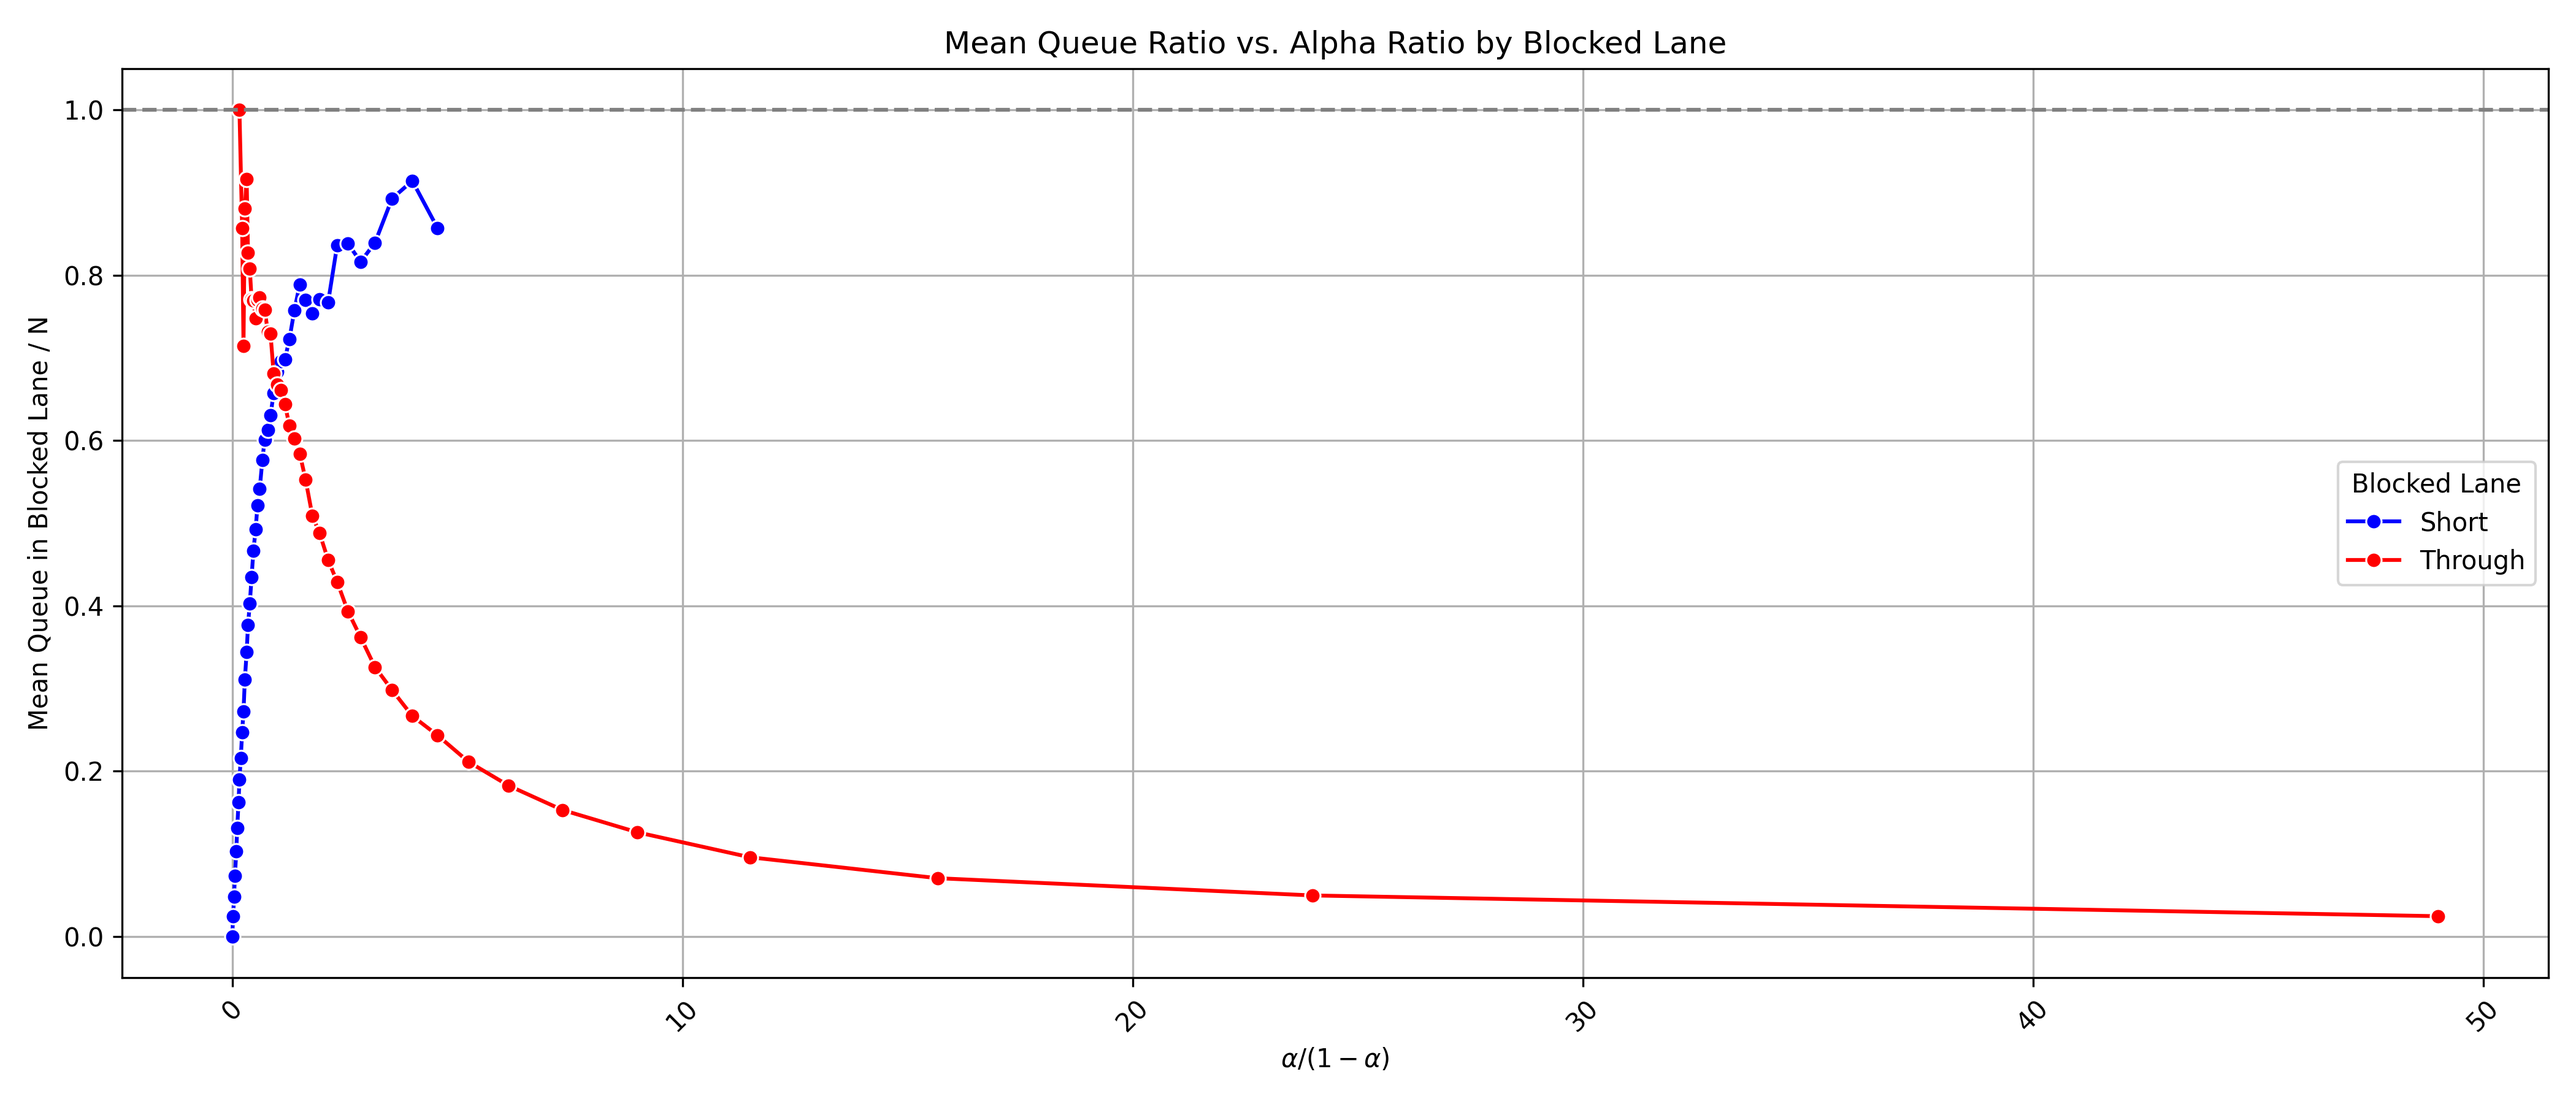
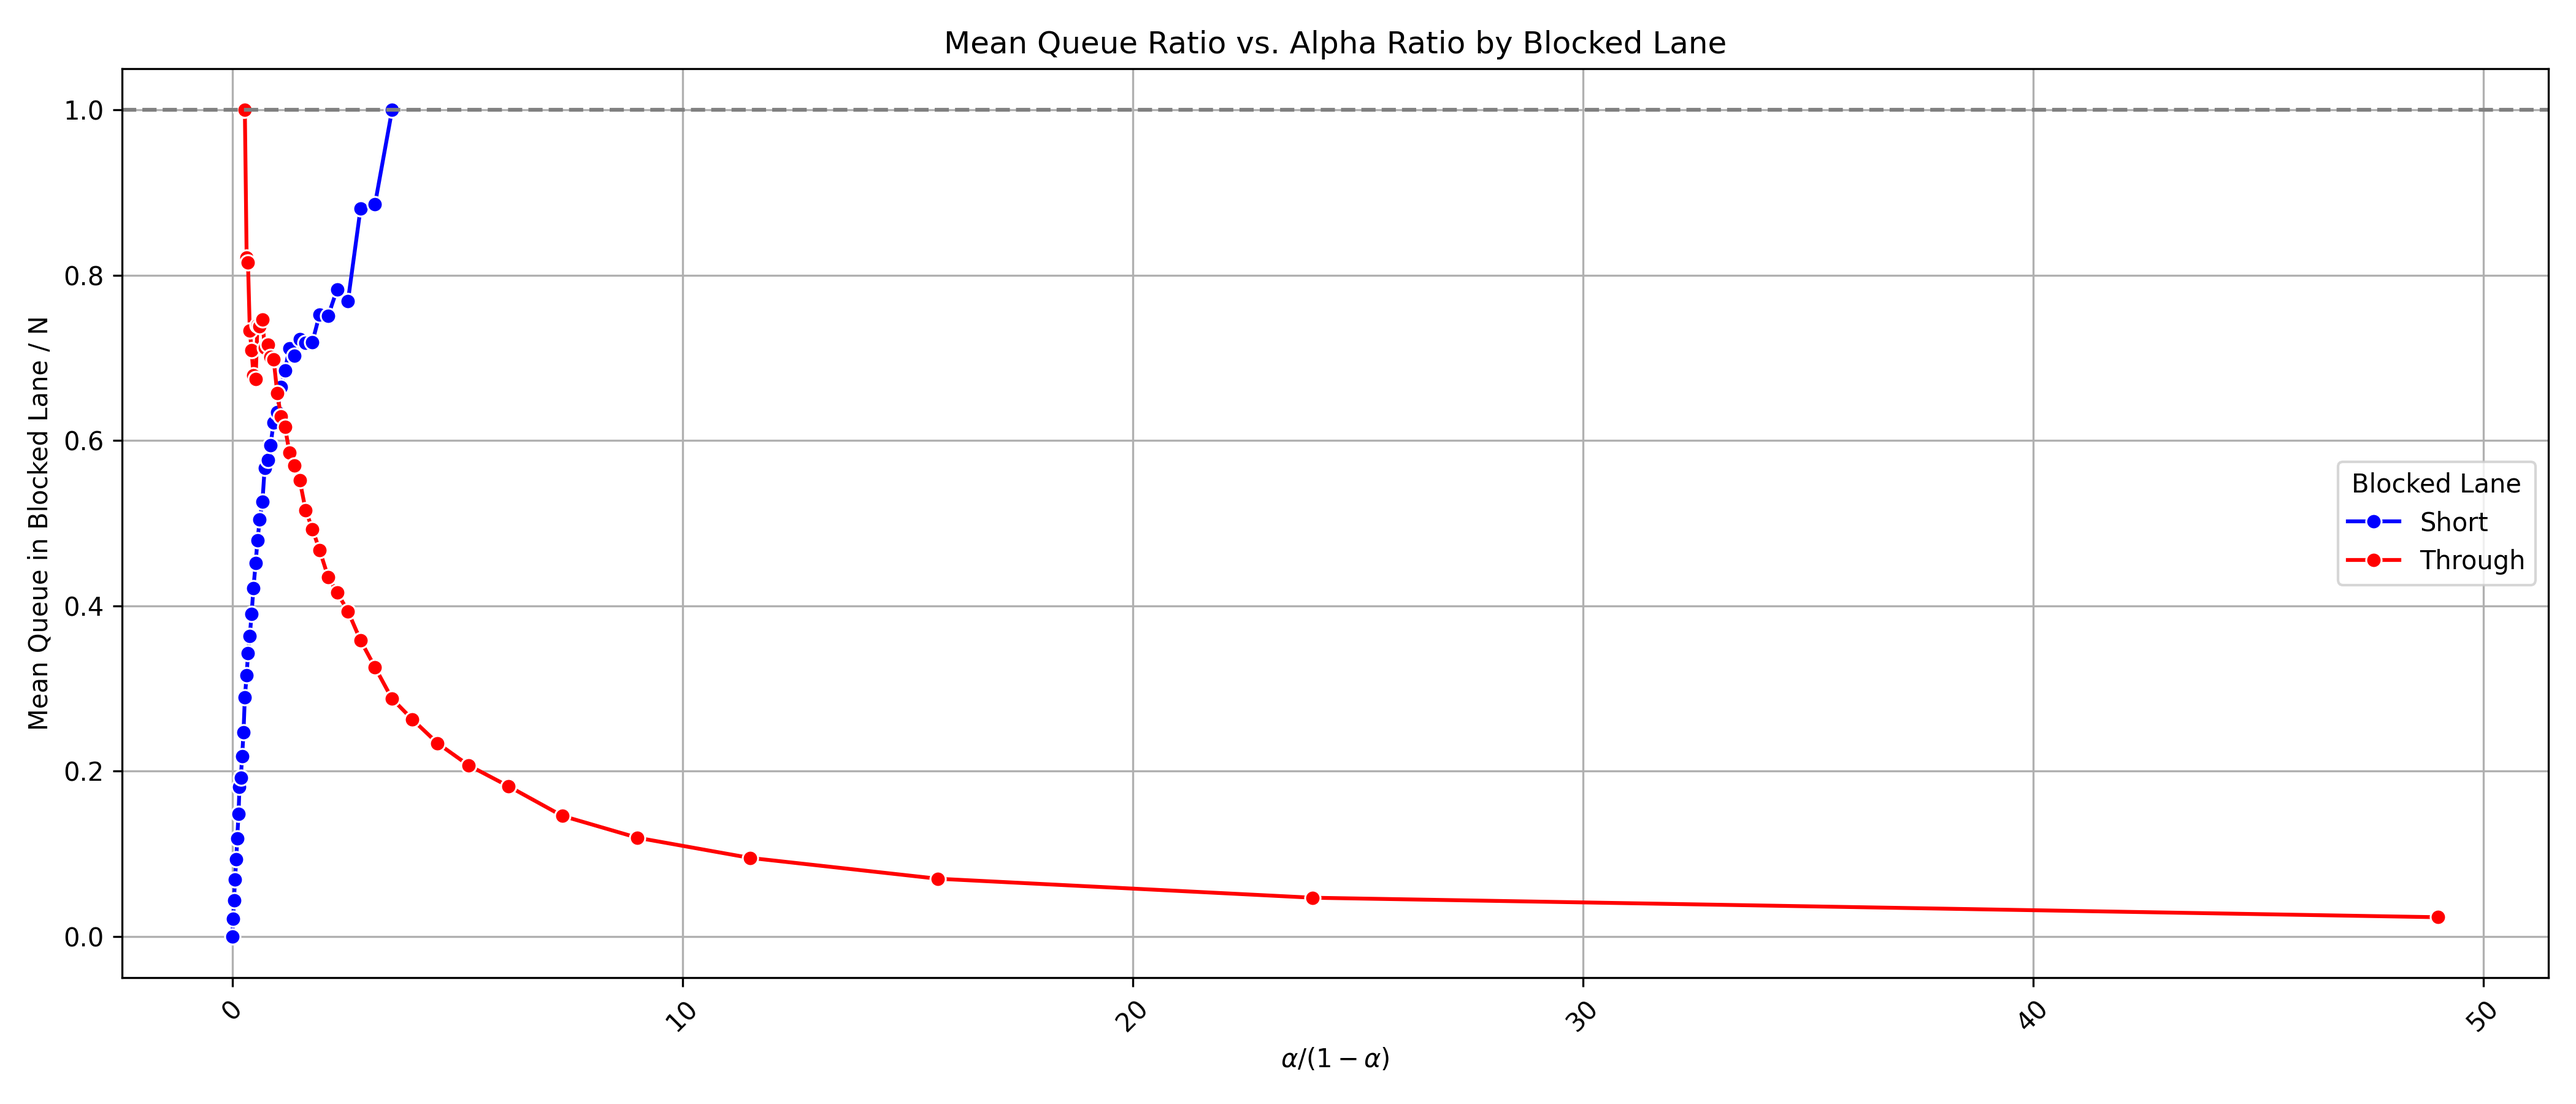
update simulation script and add the plots

diff --git a/simulation-queuing-theory.py b/simulation-queuing-theory.py
@@ -1,34 +1,34 @@
-import numpy as np
 import pandas as pd
+import numpy as np
 import matplotlib.pyplot as plt
 import seaborn as sns
+from collections import defaultdict
 
 def event_based_simulation(simulations=1000, v=1000, alpha=1/3, N=7, red=36, seed=None):
     if seed is not None:
         np.random.seed(seed)
-        
+
     results = []
+    arrival_rate_per_sec = v / 3600
+    departure_time_per_vehicle = 3600 / 1800  # 2 seconds per vehicle
 
     for _ in range(simulations):
+        current_time = 0.0
         arrival_times = []
-        current_time = 0
-        arrival_rate_per_sec = v / 3600
-
-        while current_time < red:
-            inter_arrival = np.random.exponential(1 / arrival_rate_per_sec)
-            current_time += inter_arrival
-            if current_time < red:
-                arrival_times.append(current_time)
-            else:
-                break
-
-        short_lane_queue = 0
-        through_lane_queue = 0
+        blockage_occurred = False
         blockage_time = None
         blocked_lane = None
         queue_at_blocked_lane = None
-        blockage_occurred = False
+        # Step 1: arrivals during red
+        while current_time < red:
+            inter_arrival = np.random.exponential(1 / arrival_rate_per_sec)
+            current_time += inter_arrival
+            arrival_times.append(current_time)
 
+
+        # Step 2: assign to lanes
+        short_lane_queue = 0
+        through_lane_queue = 0
         for t in arrival_times:
             if np.random.rand() < alpha:
                 short_lane_queue += 1
@@ -39,19 +39,65 @@ def event_based_simulation(simulations=1000, v=1000, alpha=1/3, N=7, red=36, see
                     queue_at_blocked_lane = through_lane_queue
                     break
             else:
-                through_lane_queue += 1
+                through_lane_queue += 1                
                 if through_lane_queue == N + 1:
                     blockage_occurred = True
                     blockage_time = t
                     blocked_lane = 'short'
                     queue_at_blocked_lane = short_lane_queue
                     break
+        
+        if blockage_occurred:
+            results.append({
+                "BlockageOccurred": blockage_occurred,
+                "BlockedLane": blocked_lane,
+                "BlockageTime": blockage_time,
+                "QueueInBlockedLane": queue_at_blocked_lane
+            })
+            continue
+
+        # Step 3: calculate initial discharge times
+        short_discharge_end = red + short_lane_queue * departure_time_per_vehicle
+        through_discharge_end = red + through_lane_queue * departure_time_per_vehicle
+
+        # Step 4: simulate arrival during discharge and check for blockage
+        next_arrival = arrival_times[-1]
+
+        while True:
+
+            if np.random.rand() < alpha:
+                if next_arrival > short_discharge_end:
+                    break
+                else:
+                    short_lane_queue += 1
+                    if short_lane_queue == N + 1:
+                        blockage_occurred = True
+                        blockage_time = next_arrival
+                        blocked_lane = 'through'
+                        queue_at_blocked_lane = through_lane_queue  # Record value before it can change
+                        break
+                    short_discharge_end += departure_time_per_vehicle
+            else:
+                if next_arrival > through_discharge_end:
+                    break
+                else:
+
+                    through_lane_queue += 1
+                    if through_lane_queue == N + 1:
+                        blockage_occurred = True
+                        blockage_time = next_arrival
+                        blocked_lane = 'short'
+                        queue_at_blocked_lane = short_lane_queue  # Record value before it can change
+                        break
+                    through_discharge_end += departure_time_per_vehicle
+            inter_arrival = np.random.exponential(1 / arrival_rate_per_sec)
+            next_arrival += inter_arrival
 
         results.append({
             "BlockageOccurred": blockage_occurred,
             "BlockedLane": blocked_lane,
-            "BlockageTime": blockage_time if blockage_occurred else red,
-            "QueueInBlockedLane": queue_at_blocked_lane if blockage_occurred else (through_lane_queue if blocked_lane == 'through' else short_lane_queue)
+            "BlockageTime": blockage_time if blockage_occurred else max(short_discharge_end, through_discharge_end),
+            "QueueInBlockedLane": queue_at_blocked_lane if blockage_occurred else np.nan
         })
 
     return pd.DataFrame(results)
@@ -60,10 +106,9 @@ def event_based_simulation(simulations=1000, v=1000, alpha=1/3, N=7, red=36, see
 alphas = np.arange(0, 1.01, 0.02)
 N = 7
 simulation_runs = 1000
-v = 1800
-red = 50
+v = 1000
+red = 36
 
-from collections import defaultdict
 
 x_labels = []
 x_positions = []
@@ -80,7 +125,7 @@ for alpha in alphas:
     x_labels.append(f"{ratio:.2f}")
     x_positions.extend([base_pos - offset, base_pos + offset])
 
-    df = event_based_simulation(simulations=simulation_runs, v=v, alpha=alpha, N=N, red=red, seed=42)
+    df = event_based_simulation(simulations=simulation_runs, v=v, alpha=alpha, N=N, red=red)
     df = df[df["BlockageOccurred"]]
 
     blue_data_flat.append([row["QueueInBlockedLane"] / N for _, row in df.iterrows() if row["BlockedLane"] == "short"])
